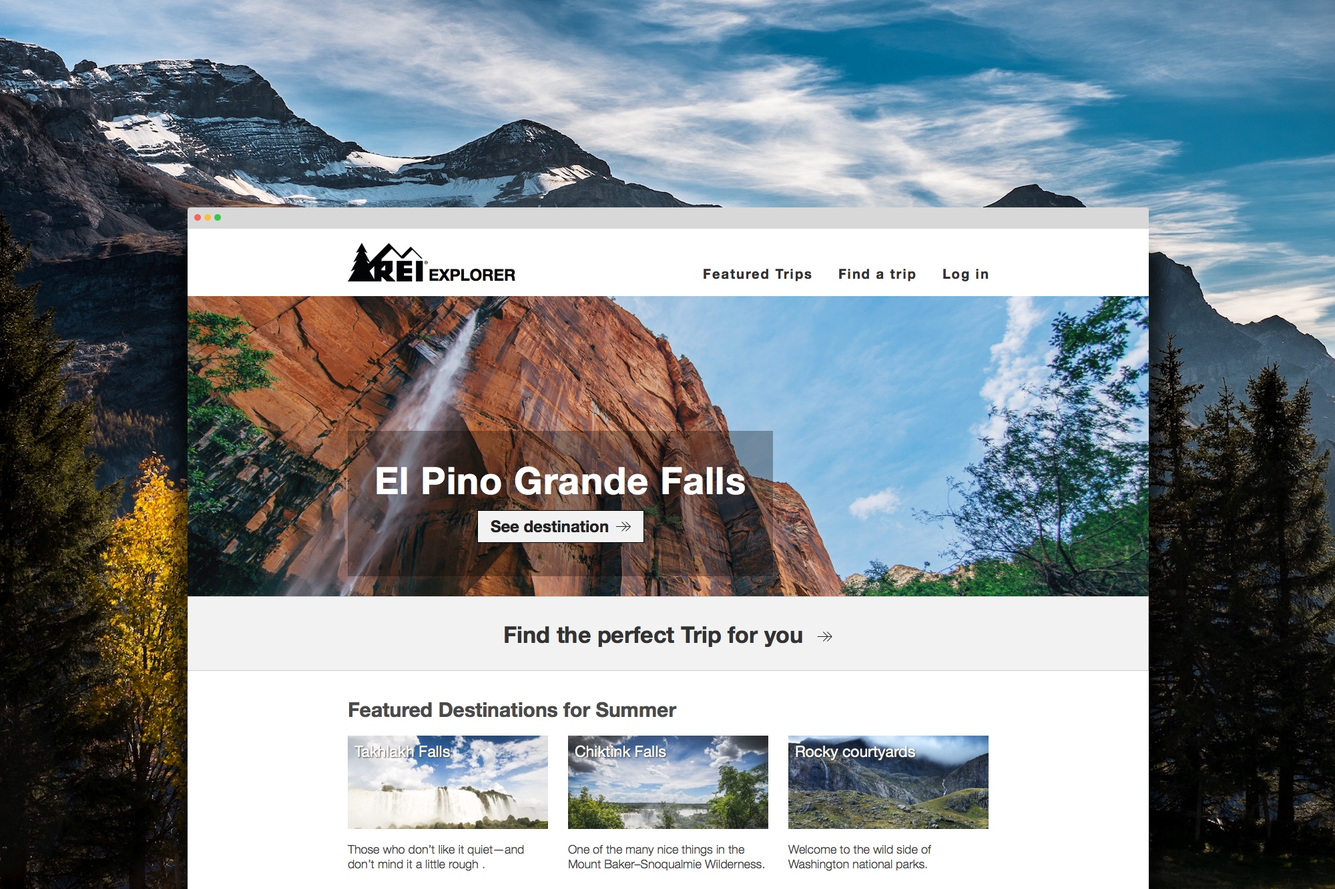
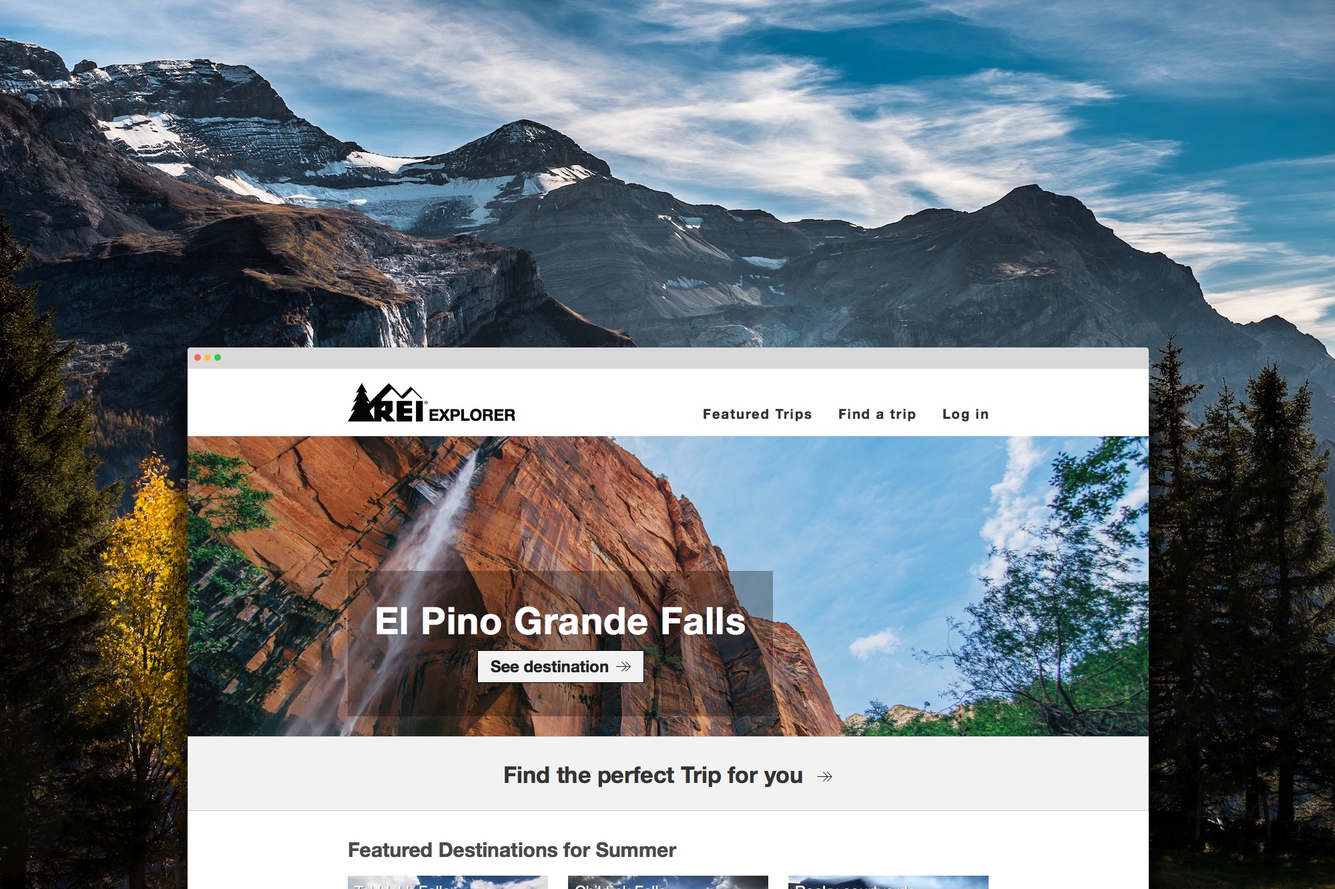
Changed heroe background position to top

diff --git a/_includes/work-single-menu.html b/_includes/work-single-menu.html
@@ -1,4 +1,4 @@
-<div class="hero work" style="background:linear-gradient(to bottom, rgba(0, 0, 0, 0.3),  rgba(255, 255, 255, 0)), url(/public/images/work-images/{{ page.image }}/banner.jpg); background-size: cover; background-position:bottom;">
+<div class="hero work" style="background:linear-gradient(to bottom, rgba(0, 0, 0, 0.3),  rgba(255, 255, 255, 0)), url(/public/images/work-images/{{ page.image }}/banner.jpg); background-size: cover; background-position:top;">
 <header>
     <div class="title">
       <h1><a href="{{site.url}}">Arturo Goicochea</a></h1>
